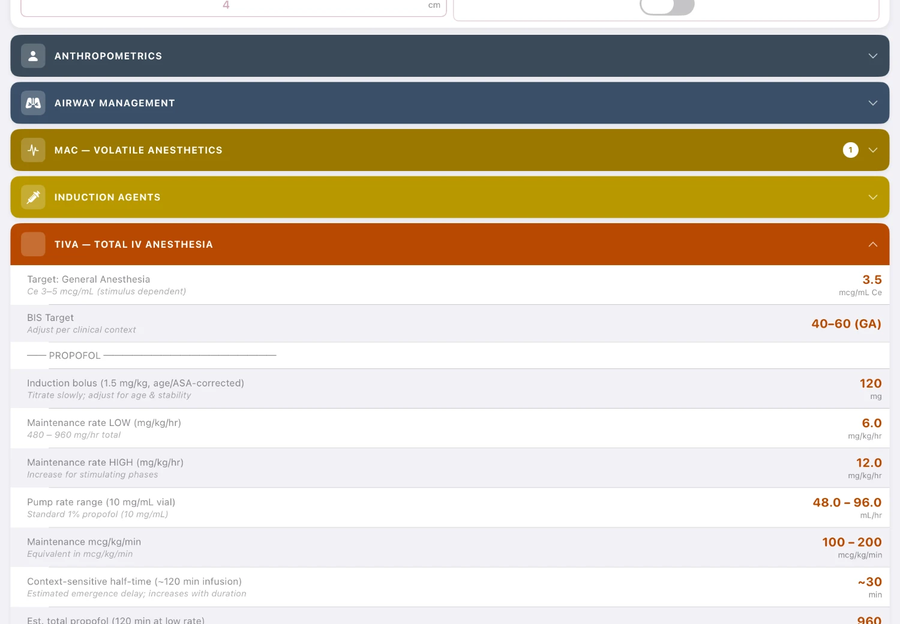
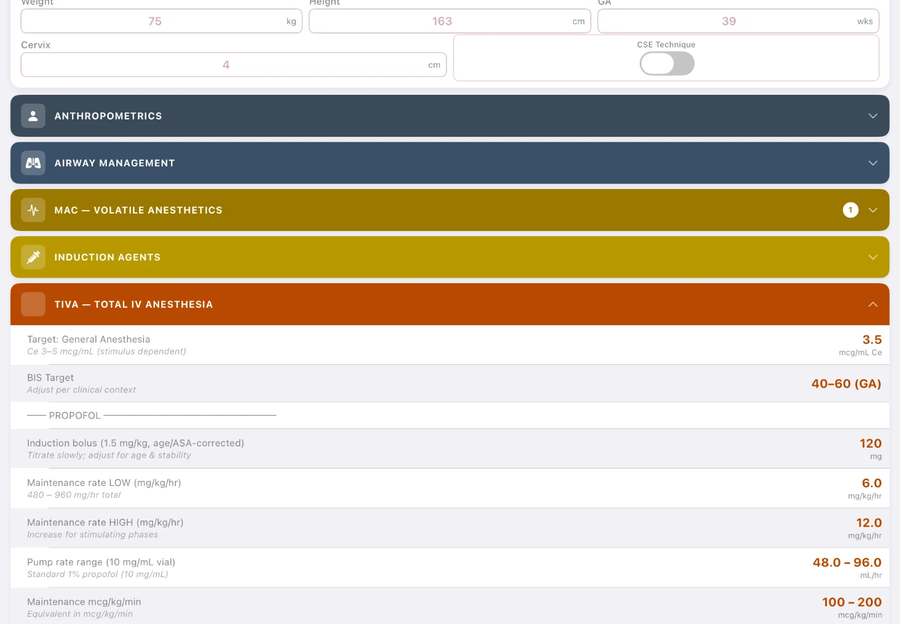
AnesCalc ASA page: link previews, patch count, results screenshot
- Open Graph / Twitter card tags so shared links show title, summary, image
- Abstract: 'five' compiler-error patch releases (transcript version history
  lists v1.2.1-v1.2.4 and v1.6.1)
- Results screenshot re-cropped above the propofol context-sensitive
  half-time row pending an app fix

Claude-Session: https://claude.ai/code/session_014deLQTWcfXrpdaoPq9dWKW

diff --git a/anesocalc/asa2026/index.html b/anesocalc/asa2026/index.html
@@ -5,6 +5,16 @@
 <meta name="viewport" content="width=device-width, initial-scale=1.0">
 <title>AI-Assisted "Vibe Coding" for Clinical Workflow Optimization: An Anesthesiology Use Case</title>
 <meta name="description" content="AI-Assisted 'Vibe Coding' for Clinical Workflow Optimization: An Anesthesiology Use Case — ePoster, demo video, and project materials for ANESTHESIOLOGY® 2026, Abstract A1325.">
+<link rel="canonical" href="https://awpeace1906-collab.github.io/criticalvector/anesocalc/asa2026/">
+<meta property="og:type" content="website">
+<meta property="og:url" content="https://awpeace1906-collab.github.io/criticalvector/anesocalc/asa2026/">
+<meta property="og:title" content="AI-Assisted “Vibe Coding” for Clinical Workflow Optimization — AnesCalc">
+<meta property="og:description" content="ANESTHESIOLOGY® 2026 ePoster A1325: a native iOS anesthesia calculator built by a medical student directing an AI assistant. Demo video, ePoster, and beta sign-up.">
+<meta property="og:image" content="https://awpeace1906-collab.github.io/criticalvector/anesocalc/asa2026/media/anescalc_demo_poster.jpg">
+<meta property="og:image:width" content="1280">
+<meta property="og:image:height" content="720">
+<meta property="og:image:alt" content="Title card: AI-Assisted Vibe Coding for Clinical Workflow Optimization, an anesthesiology use case">
+<meta name="twitter:card" content="summary_large_image">
 <style>
   * { margin: 0; padding: 0; box-sizing: border-box; }
   /* Palette pulled directly from the ASA 2026 ePoster (AnesCalc_ASA2026_ePoster_v3.pptx) */
@@ -313,7 +323,7 @@
     <summary>Read the full abstract</summary>
     <p>A third-year medical student engaged a conversational AI assistant (Claude, Anthropic) in an iterative development session to design and build a comprehensive anesthesia clinical decision support platform, with no prior software engineering experience. All AI-generated drug dosing, pharmacokinetic parameters, and clinical protocols were independently verified against UpToDate prior to inclusion.</p>
     <p>The workflow proceeded in three phases: structured requirements elicitation across 14 clinical domains; a Microsoft Excel prototype with 116 live formulae as a validated reference layer; and a native iOS/iPadOS SwiftUI application (iOS 17+) incorporating all calculation domains, a TIVA module with Marsh/Schnider propofol pharmacokinetic modeling, a labor and regional obstetric module with five indication-specific protocols, and a searchable drug reference library. Debugging followed a patch-based workflow in which Xcode compiler errors were submitted verbatim to the AI and resolved across targeted iterations.</p>
-    <p>A fully functional, offline-capable native iOS application was produced without the student writing a single line of code, compiling and running on physical iPhone and iPad hardware across seven discrete compiler-error resolution cycles. All dosing outputs were confirmed accurate against UpToDate references, including age-corrected MAC algorithms, weight-based pediatric dosing, and obstetric-specific vasopressor guidance.</p>
+    <p>A fully functional, offline-capable native iOS application was produced without the student writing a single line of code, compiling and running on physical iPhone and iPad hardware across five discrete compiler-error patch releases. All dosing outputs were confirmed accurate against UpToDate references, including age-corrected MAC algorithms, weight-based pediatric dosing, and obstetric-specific vasopressor guidance.</p>
     <p>This case demonstrates that AI-assisted vibe coding may democratize clinical software development beyond attending-level practitioners. Independent verification against established clinical references is feasible within this workflow and essential for safe deployment. Early trainees may be uniquely positioned to leverage AI-assisted development, translating emerging clinical knowledge into validated bedside tools during training itself.</p>
 
   </details>
